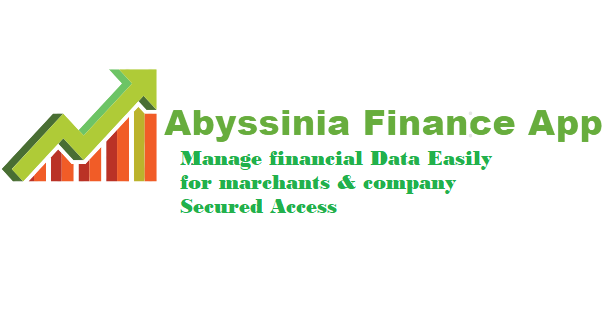
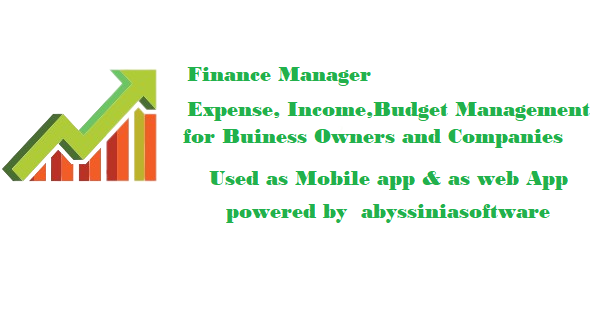
last

diff --git a/lib/splashscreen.dart b/lib/splashscreen.dart
@@ -48,7 +48,7 @@ class _SplashScreenState extends State<SplashScreen>
                   height: screenHeight,
                   width: screenWidth,
                   color: Colors.green,
-                  child: Image.asset('assets/images/logo.png',
+                  child: Image.asset('assets/images/lg2.png',
                            height: screenHeight,
                            width: screenWidth,
                            ))
